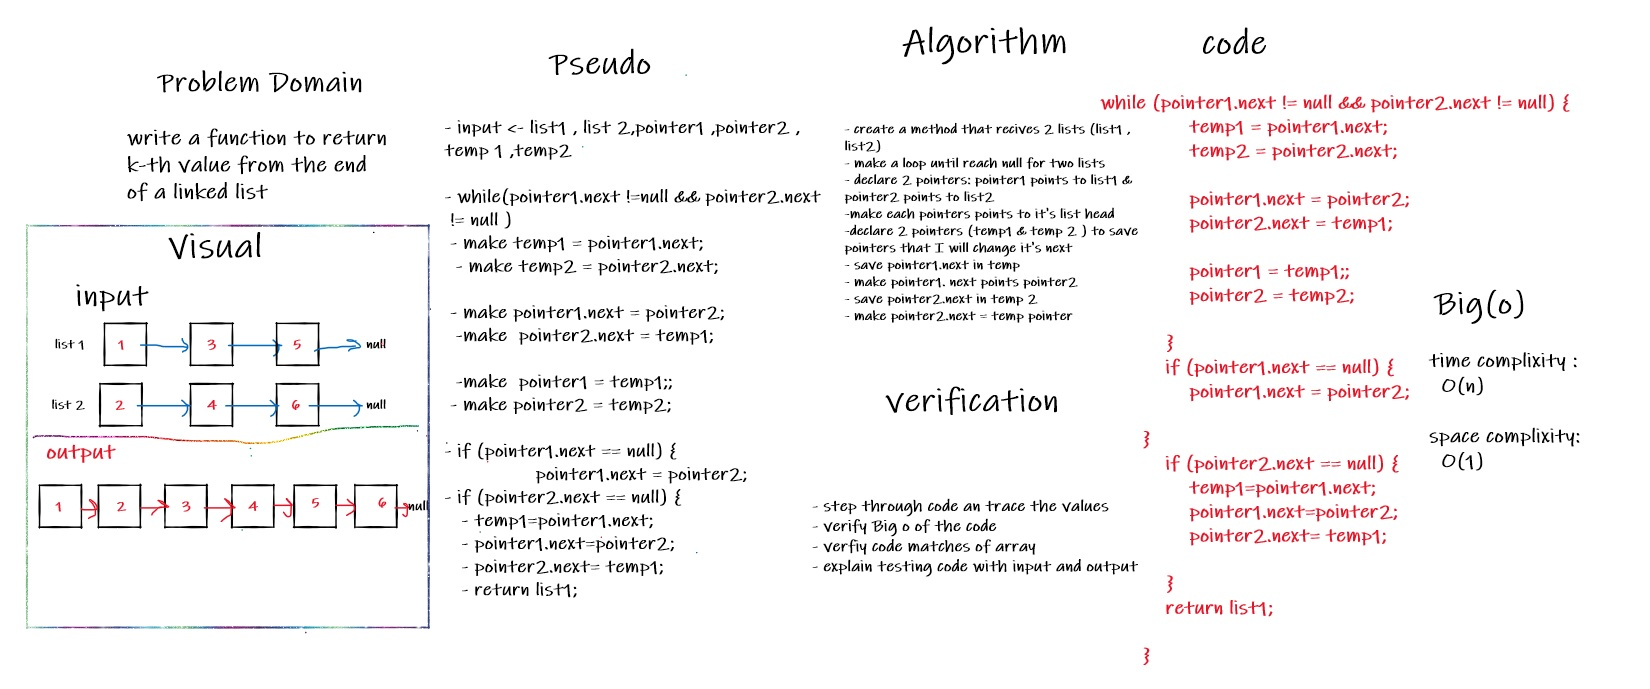
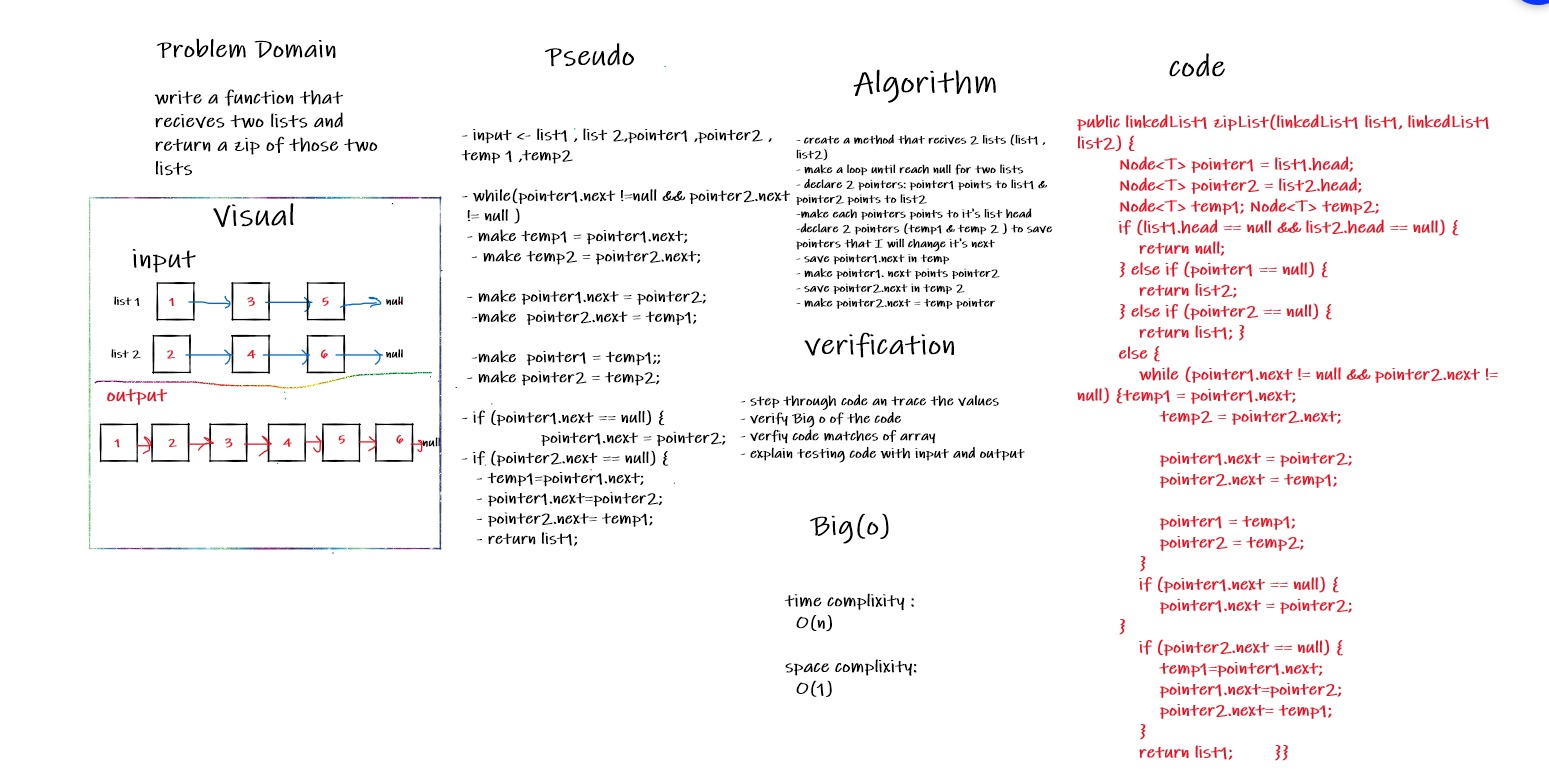
updated

diff --git a/linkedList/app/src/main/java/linkedList/App.java b/linkedList/app/src/main/java/linkedList/App.java
@@ -19,18 +19,19 @@ public class App {
         list1.insertNode(1);
         list1.append(3);
         list1.append(5);
-//        list1.append(7);
+        list1.append(7);
 //        list1.append(9);
 
         list2.insertNode(2);
         list2.append(4);
-//        list2.append(6);
+        list2.append(6);
 //        list2.append(8);
 //        list2.append(10);
         System.out.println("list 1 =   " +list1.toString());
         System.out.println("list 2 =   "+list2.toString() );
         System.out.println("zip list =  " +newlist.zipList(list1,list2).toString());
-//        newlist.zipList(list1,list2);
+        newlist.zipList(list1,list2);
+
 
 //        linkedList1<String> newlist = new linkedList1();
 //        // insert nodes to the head of linked list

diff --git a/linkedList/readme8.md b/linkedList/readme8.md
@@ -1,12 +1,12 @@
 # Challenge Summary
 <!-- Description of the challenge -->
 
-* Write the following method for the Linked List class that recivecs an integer and return the value of node that represent Kth node from the end
+* Write the following method for the Linked List class that recivecs 2 lists and return the zip of two lists in one list 
 
 
 ## Whiteboard Process
 <!-- Embedded whiteboard image -->
-white board for function KthPositionFromEnd
+white board for function zipList
 
 ![ziplist ](../assets/ziplist.jpg)
 
